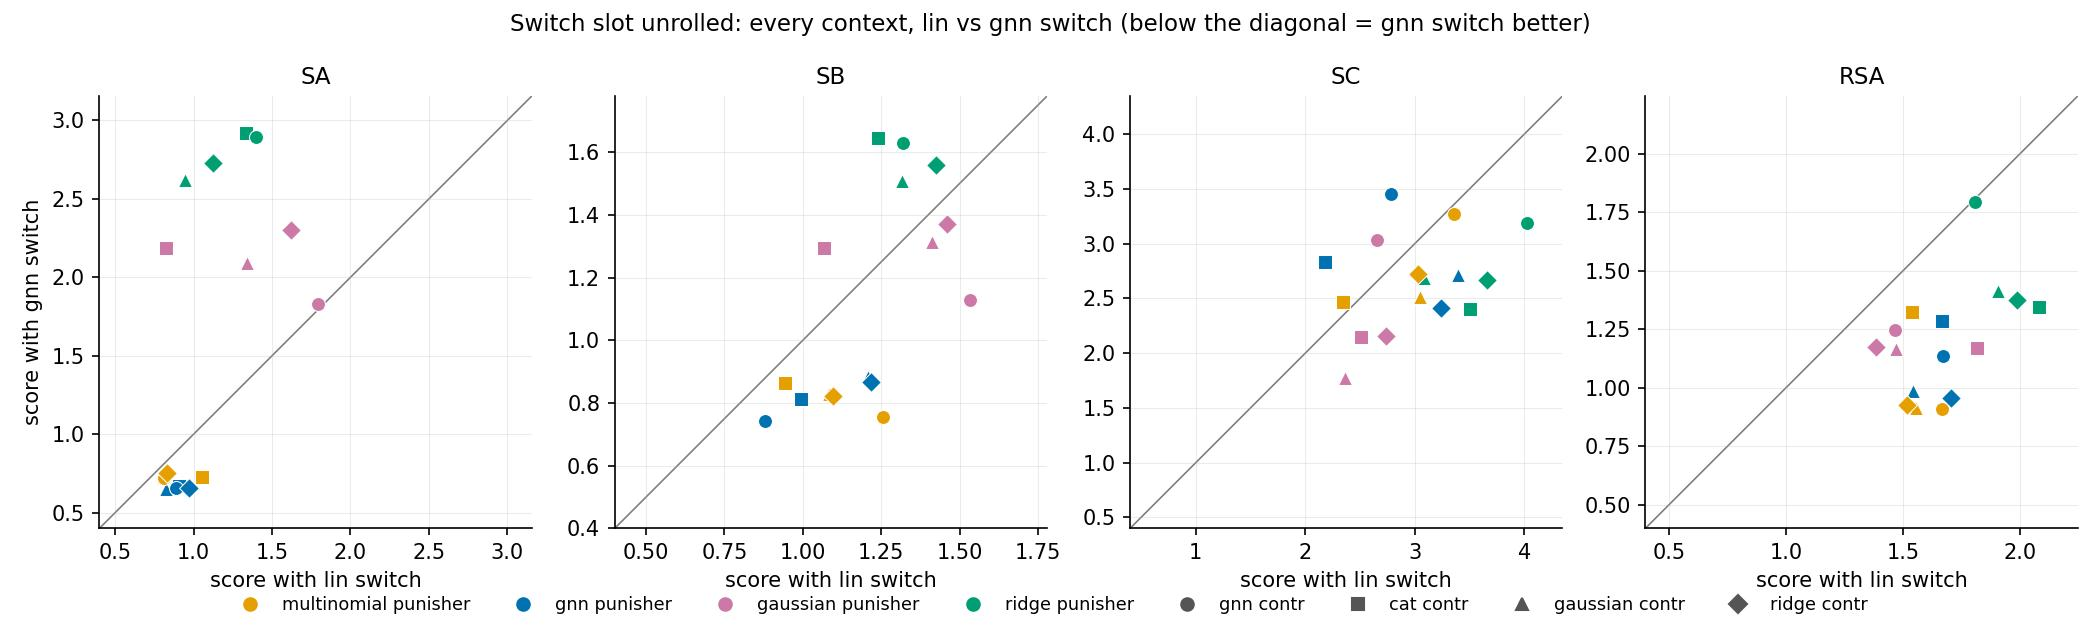
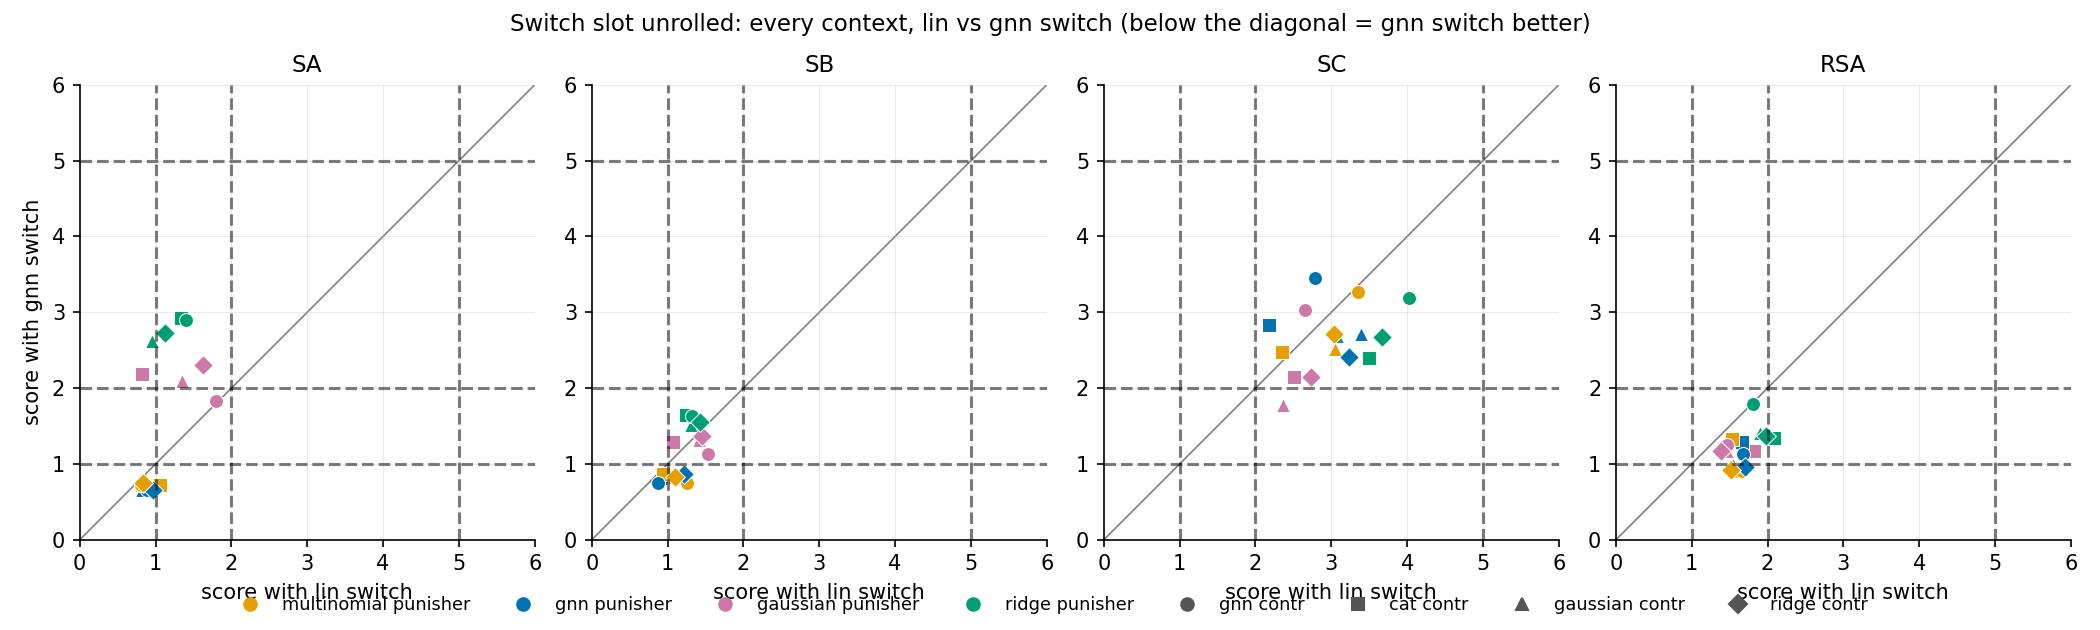
Update switch unrolled visual
- Set global max and min at 6 and 0 respectively
- Draw dashed lines to shows what bins the measurements fall into

diff --git a/scripts/data_analysis/evaluation_sweep.py b/scripts/data_analysis/evaluation_sweep.py
@@ -278,13 +278,15 @@ def fig_slot_concordance(scores, out_dir):
 
 def fig_switch_unrolled(scores, out_dir):
     fig, axes = plt.subplots(1, len(SWITCH_ROWS), figsize=(14, 4.2))
+
+    hi = 6
+    lo = 0
+
     for ax, metric in zip(axes, SWITCH_ROWS):
         sub = scores[scores["metric"] == metric]
         wide = sub.pivot_table(
             index=["contr", "punisher"], columns="switch", values="score"
         )
-        lo = min(wide.min().min(), 0.4)
-        hi = wide.max().max() * 1.08
         ax.plot([lo, hi], [lo, hi], color="gray", linewidth=0.8, zorder=1)
         for (contr, punisher), row in wide.iterrows():
             ax.scatter(
@@ -303,6 +305,9 @@ def fig_switch_unrolled(scores, out_dir):
         ax.set_ylim(lo, hi)
         ax.set_aspect("equal")
         ax.grid(alpha=0.25, linewidth=0.5)
+        for b in [1,2,5]:
+            ax.vlines(x=b, ymin=lo, ymax=hi, colors='k', alpha=0.5, linestyles='dashed')
+            ax.hlines(y=b, xmin=lo, xmax=hi, colors='k', alpha=0.5, linestyles='dashed')
         ax.spines[["top", "right"]].set_visible(False)
     axes[0].set_ylabel("score with gnn switch")
     handles = [
